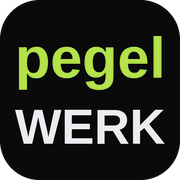
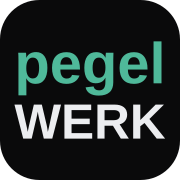
Give the house mark the same plaque as the headings
V1: WERK steht dunkel auf einer Jade-Plakette, "pege" wird hell. Damit
tragen Zeichen, Ueberschriften und Produktname dasselbe Bauteil —
"pege|WERK", "PRO Audio Software", "voyz SESSION PRO".

DAS PEGELMETER BLEIBT UNANGETASTET, und das ist der Punkt, an dem ich
fast etwas kaputtgemacht haette: was zwischen "pege" und "WERK" steht,
ist kein Trenner, sondern fuenf gestapelte Balken — die unteren drei
leuchtend, die oberen zwei dunkel. Es ist das "l" von pegelWERK, ein
Meter mit Ausschlag. Ein pauschales Umfaerben der Jade-Flaechen haette
die leuchtenden Segmente mitgenommen und die Aussage getilgt. Deshalb
faerbt der Eingriff ausschliesslich <path>-Elemente um; die <rect> des
Meters bleiben, wie sie sind. Die Plakette haelt 5,1 Einheiten Abstand
davon — mehr Innenabstand ginge nicht, ohne das Meter zu beruehren.

Radius 14 auf 86,8 Einheiten Hoehe = 1:6, dasselbe Verhaeltnis wie
border-radius .2em bei den Ueberschriften.

Dabei aufgefallen und mitgenommen: FAVICON UND APP-SYMBOLE trugen noch
das alte Signalgruen — der Farbwechsel hatte nur HTML und die beiden
Logo-SVGs erfasst. favicon.svg ist korrigiert, die PNG-Symbole (16 bis
512, apple-touch-icon) sind daraus neu gerendert, favicon.ico neu
geschrieben. Cache-Versionen der Logos angehoben.

Changed region(s): [[0.0833, 0.1944, 0.9167, 0.8056]]

diff --git a/broadcast-meter-pro.html b/broadcast-meter-pro.html
@@ -255,7 +255,7 @@ h1,h2,h3,h4,h5,p,li{text-wrap:balance}
 
 <nav>
  <a href="/" class="nav-logo">
- <img class="nav-logo-img" src="/logo-lockup.svg?v=6" alt="pegelWERK">
+ <img class="nav-logo-img" src="/logo-lockup.svg?v=7" alt="pegelWERK">
  </a>
  <div class="nav-platforms">
  <a href="/mac" class="active">Mac</a>
@@ -518,7 +518,7 @@ h1,h2,h3,h4,h5,p,li{text-wrap:balance}
  </div>
  </div>
  <div class="footer-bar">
- <img class="footer-brand-img" src="/logo.svg?v=8" alt="pegelWERK">
+ <img class="footer-brand-img" src="/logo.svg?v=9" alt="pegelWERK">
  <span class="footer-meta">pegelWERK · © 2026</span>
  </div>
 </footer>

diff --git a/loudness-correct.html b/loudness-correct.html
@@ -204,7 +204,7 @@ h1,h2,h3,h4,h5,p,li{text-wrap:balance}
 
 <nav>
  <a href="/" class="nav-logo">
- <img class="nav-logo-img" src="/logo-lockup.svg?v=6" alt="pegelWERK">
+ <img class="nav-logo-img" src="/logo-lockup.svg?v=7" alt="pegelWERK">
  </a>
  <div class="nav-platforms">
  <a href="/mac" class="active">Mac</a>
@@ -431,7 +431,7 @@ h1,h2,h3,h4,h5,p,li{text-wrap:balance}
  </div>
  </div>
  <div class="footer-bar">
- <img class="footer-brand-img" src="/logo.svg?v=8" alt="pegelWERK">
+ <img class="footer-brand-img" src="/logo.svg?v=9" alt="pegelWERK">
  <span class="footer-meta">pegelWERK · © 2026</span>
  </div>
 </footer>

diff --git a/mac.html b/mac.html
@@ -234,7 +234,7 @@ h1,h2,h3,h4,h5,p,li{text-wrap:balance}
 
 <nav>
  <a href="/" class="nav-logo">
- <img class="nav-logo-img" src="/logo-lockup.svg?v=6" alt="pegelWERK">
+ <img class="nav-logo-img" src="/logo-lockup.svg?v=7" alt="pegelWERK">
  </a>
  <div class="nav-platforms">
  <a href="/mac" class="active">Mac</a>
@@ -391,7 +391,7 @@ h1,h2,h3,h4,h5,p,li{text-wrap:balance}
  </div>
  </div>
  <div class="footer-bar">
- <img class="footer-brand-img" src="/logo.svg?v=8" alt="pegelWERK">
+ <img class="footer-brand-img" src="/logo.svg?v=9" alt="pegelWERK">
  <span class="footer-meta">pegelWERK · © 2026</span>
  </div>
 </footer>

diff --git a/voyzsession.html b/voyzsession.html
@@ -256,7 +256,7 @@ h1,h2,h3,h4,h5,p,li{text-wrap:balance}
 
 <nav>
  <a href="/" class="nav-logo">
- <img class="nav-logo-img" src="/logo-lockup.svg?v=6" alt="pegelWERK">
+ <img class="nav-logo-img" src="/logo-lockup.svg?v=7" alt="pegelWERK">
  </a>
  <div class="nav-platforms">
  <a href="/mac" class="active">Mac</a>
@@ -499,7 +499,7 @@ h1,h2,h3,h4,h5,p,li{text-wrap:balance}
  </div>
  </div>
  <div class="footer-bar">
- <img class="footer-brand-img" src="/logo.svg?v=8" alt="pegelWERK">
+ <img class="footer-brand-img" src="/logo.svg?v=9" alt="pegelWERK">
  <span class="footer-meta">pegelWERK · © 2026</span>
  </div>
 </footer>

diff --git a/broadcast-meter-ios.html b/broadcast-meter-ios.html
@@ -233,7 +233,7 @@ h1,h2,h3,h4,h5,p,li{text-wrap:balance}
 
 <nav>
  <a href="/" class="nav-logo">
- <img class="nav-logo-img" src="/logo-lockup.svg?v=6" alt="pegelWERK">
+ <img class="nav-logo-img" src="/logo-lockup.svg?v=7" alt="pegelWERK">
  </a>
  <div class="nav-platforms">
  <a href="/mac">Mac</a>
@@ -470,7 +470,7 @@ h1,h2,h3,h4,h5,p,li{text-wrap:balance}
  </div>
  </div>
  <div class="footer-bar">
- <img class="footer-brand-img" src="/logo.svg?v=8" alt="pegelWERK">
+ <img class="footer-brand-img" src="/logo.svg?v=9" alt="pegelWERK">
  <span class="footer-meta">pegelWERK · © 2026</span>
  </div>
 </footer>

diff --git a/changelog.html b/changelog.html
@@ -123,7 +123,7 @@ h1,h2,h3,h4,h5,p,li{text-wrap:balance}
 
 <nav>
  <a href="/" class="nav-logo">
- <img class="nav-logo-img" src="/logo-lockup.svg?v=6" alt="pegelWERK">
+ <img class="nav-logo-img" src="/logo-lockup.svg?v=7" alt="pegelWERK">
  </a>
  <div class="nav-platforms">
  <a href="/mac">Mac</a>
@@ -403,7 +403,7 @@ h1,h2,h3,h4,h5,p,li{text-wrap:balance}
  </div>
  </div>
  <div class="footer-bar">
- <img class="footer-brand-img" src="/logo.svg?v=8" alt="pegelWERK">
+ <img class="footer-brand-img" src="/logo.svg?v=9" alt="pegelWERK">
  <span class="footer-meta">pegelWERK · © 2026</span>
  </div>
 </footer>

diff --git a/easy-editor.html b/easy-editor.html
@@ -200,7 +200,7 @@ h1,h2,h3,h4,h5,p,li{text-wrap:balance}
 
 <nav>
  <a href="/" class="nav-logo">
- <img class="nav-logo-img" src="/logo-lockup.svg?v=6" alt="pegelWERK">
+ <img class="nav-logo-img" src="/logo-lockup.svg?v=7" alt="pegelWERK">
  </a>
  <div class="nav-platforms">
  <a href="/mac">Mac</a>
@@ -399,7 +399,7 @@ h1,h2,h3,h4,h5,p,li{text-wrap:balance}
  </div>
  </div>
  <div class="footer-bar">
- <img class="footer-brand-img" src="/logo.svg?v=8" alt="pegelWERK">
+ <img class="footer-brand-img" src="/logo.svg?v=9" alt="pegelWERK">
  <span class="footer-meta">pegelWERK · © 2026</span>
  </div>
 </footer>

diff --git a/index.html b/index.html
@@ -258,7 +258,7 @@ h1,h2,h3,h4,h5,p,li{text-wrap:balance}
 
 <nav>
  <a href="/" class="nav-logo">
- <img class="nav-logo-img" src="/logo-lockup.svg?v=6" alt="pegelWERK">
+ <img class="nav-logo-img" src="/logo-lockup.svg?v=7" alt="pegelWERK">
  </a>
  <div class="nav-platforms">
  <a href="/mac">Mac</a>
@@ -351,7 +351,7 @@ h1,h2,h3,h4,h5,p,li{text-wrap:balance}
  </div>
  </div>
  <div class="footer-bar">
- <img class="footer-brand-img" src="/logo.svg?v=8" alt="pegelWERK">
+ <img class="footer-brand-img" src="/logo.svg?v=9" alt="pegelWERK">
  <span class="footer-meta">pegelWERK · © 2026</span>
  </div>
 </footer>

diff --git a/instant-player-app.html b/instant-player-app.html
@@ -207,7 +207,7 @@ h1,h2,h3,h4,h5,p,li{text-wrap:balance}
 
 <nav>
  <a href="/" class="nav-logo">
- <img class="nav-logo-img" src="/logo-lockup.svg?v=6" alt="pegelWERK">
+ <img class="nav-logo-img" src="/logo-lockup.svg?v=7" alt="pegelWERK">
  </a>
  <div class="nav-platforms">
  <a href="/mac">Mac</a>
@@ -419,7 +419,7 @@ h1,h2,h3,h4,h5,p,li{text-wrap:balance}
  </div>
  </div>
  <div class="footer-bar">
- <img class="footer-brand-img" src="/logo.svg?v=8" alt="pegelWERK">
+ <img class="footer-brand-img" src="/logo.svg?v=9" alt="pegelWERK">
  <span class="footer-meta">pegelWERK · © 2026</span>
  </div>
 </footer>

diff --git a/ios.html b/ios.html
@@ -238,7 +238,7 @@ h1,h2,h3,h4,h5,p,li{text-wrap:balance}
 
 <nav>
  <a href="/" class="nav-logo">
- <img class="nav-logo-img" src="/logo-lockup.svg?v=6" alt="pegelWERK">
+ <img class="nav-logo-img" src="/logo-lockup.svg?v=7" alt="pegelWERK">
  </a>
  <div class="nav-platforms">
  <a href="/mac">Mac</a>
@@ -468,7 +468,7 @@ h1,h2,h3,h4,h5,p,li{text-wrap:balance}
  </div>
  </div>
  <div class="footer-bar">
- <img class="footer-brand-img" src="/logo.svg?v=8" alt="pegelWERK">
+ <img class="footer-brand-img" src="/logo.svg?v=9" alt="pegelWERK">
  <span class="footer-meta">pegelWERK · © 2026</span>
  </div>
 </footer>

diff --git a/loudness-correct-ios.html b/loudness-correct-ios.html
@@ -168,7 +168,7 @@ h1,h2,h3,h4,h5,p,li{text-wrap:balance}
 
 <nav>
  <a href="/" class="nav-logo">
- <img class="nav-logo-img" src="/logo-lockup.svg?v=6" alt="pegelWERK">
+ <img class="nav-logo-img" src="/logo-lockup.svg?v=7" alt="pegelWERK">
  </a>
  <div class="nav-platforms">
  <a href="/mac">Mac</a>
@@ -393,7 +393,7 @@ h1,h2,h3,h4,h5,p,li{text-wrap:balance}
  </div>
  </div>
  <div class="footer-bar">
- <img class="footer-brand-img" src="/logo.svg?v=8" alt="pegelWERK">
+ <img class="footer-brand-img" src="/logo.svg?v=9" alt="pegelWERK">
  <span class="footer-meta">pegelWERK · © 2026</span>
  </div>
 </footer>

diff --git a/manage-license.html b/manage-license.html
@@ -158,7 +158,7 @@ h1,h2,h3,h4,h5,p,li{text-wrap:balance}
 
 <nav>
  <a href="/" class="nav-logo">
- <img class="nav-logo-img" src="/logo-lockup.svg?v=6" alt="pegelWERK">
+ <img class="nav-logo-img" src="/logo-lockup.svg?v=7" alt="pegelWERK">
  </a>
  <div class="nav-platforms">
  <a href="/mac">Mac</a>
@@ -268,7 +268,7 @@ h1,h2,h3,h4,h5,p,li{text-wrap:balance}
  </div>
  </div>
  <div class="footer-bar">
- <img class="footer-brand-img" src="/logo.svg?v=8" alt="pegelWERK">
+ <img class="footer-brand-img" src="/logo.svg?v=9" alt="pegelWERK">
  <span class="footer-meta">pegelWERK · © 2026</span>
  </div>
 </footer>
